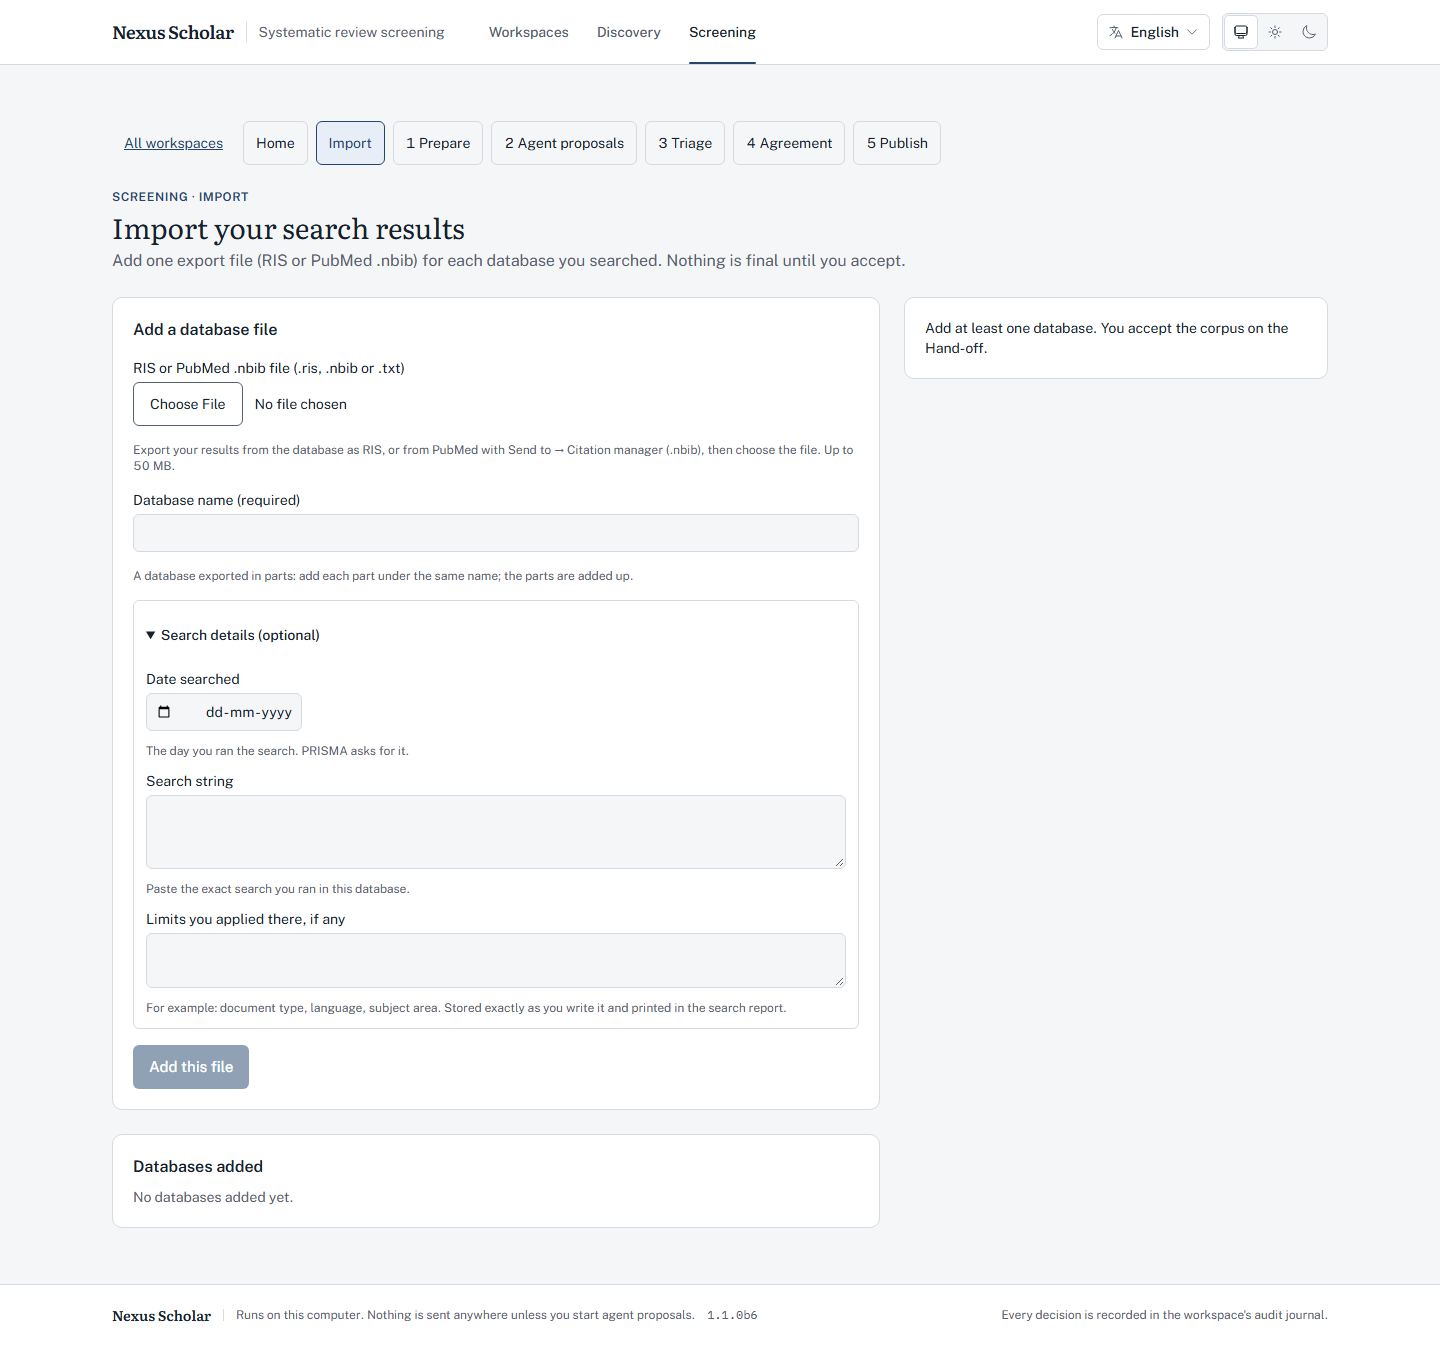
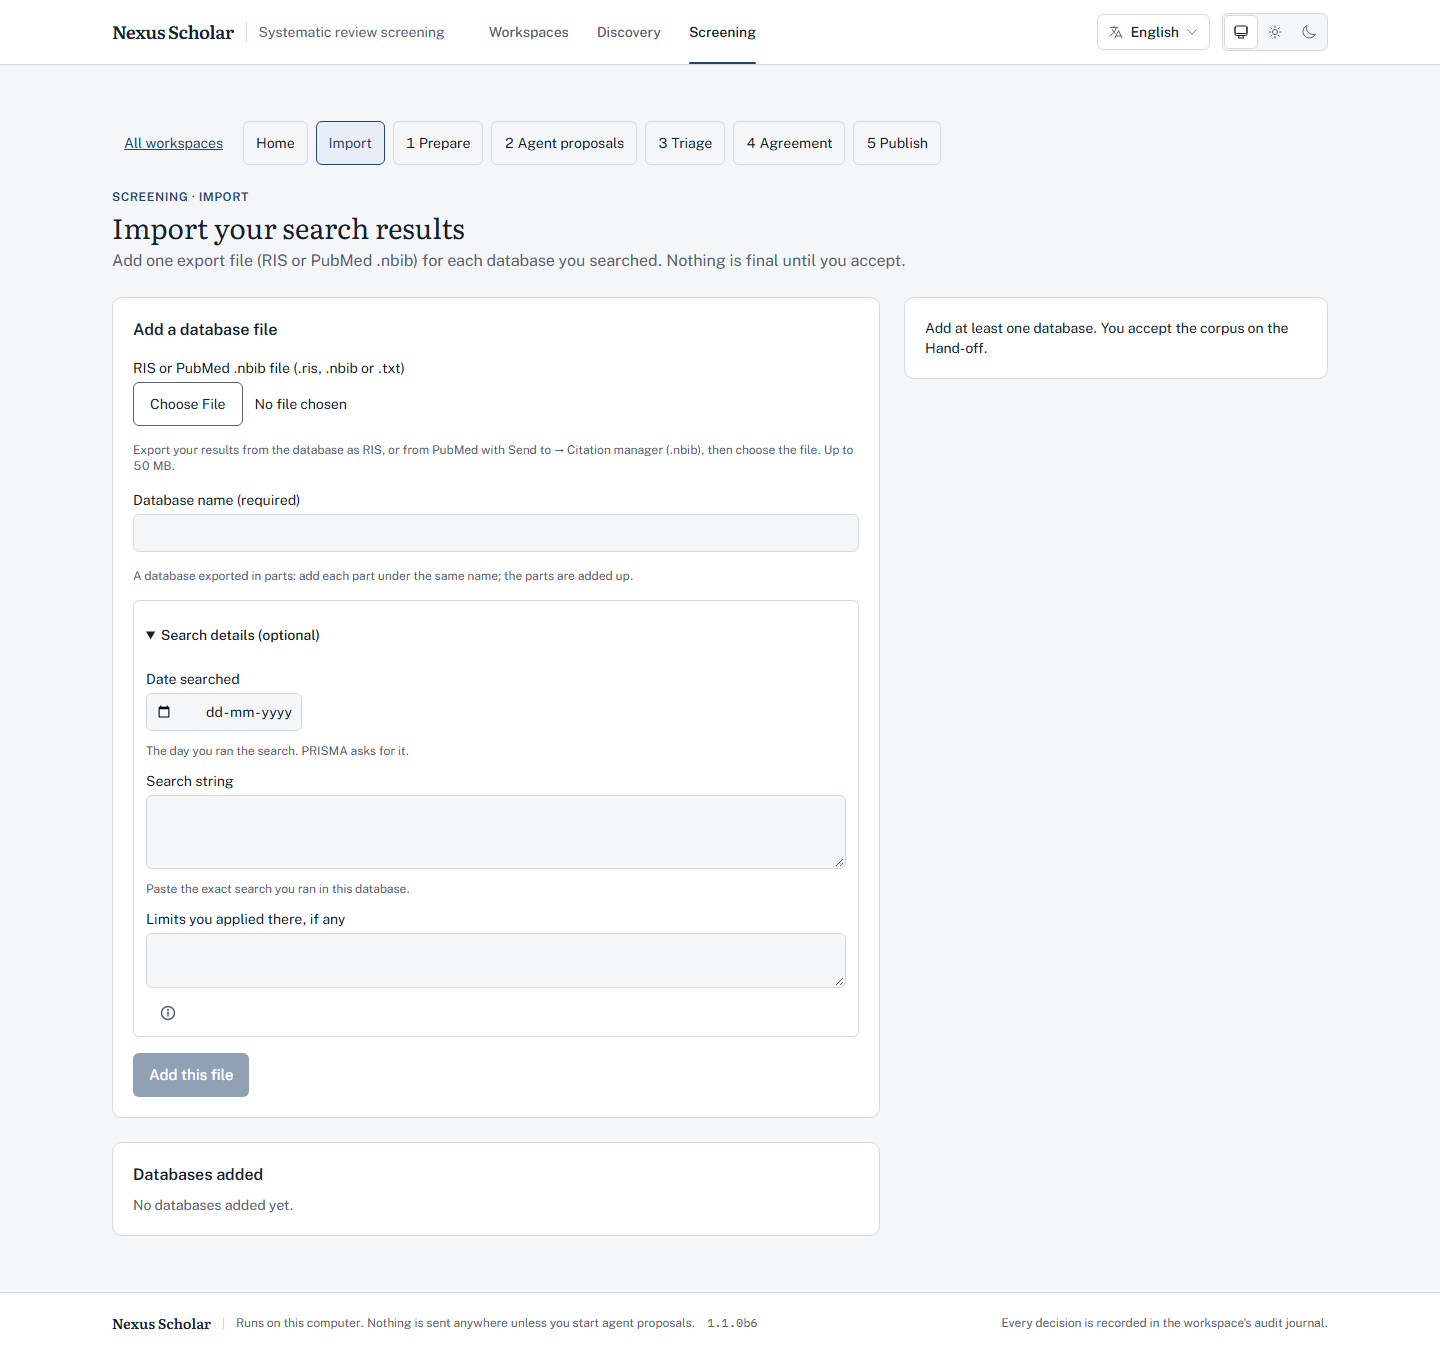
fix(read-performance): review round 1 — a read after a write never joins an earlier request; an unreadable protocol answers the corpus as before
- readJson shares a request only between readers that start in the same
  synchronous run; a reload after a write always asks the engine again
  (review finding 1, with regression tests)
- the accepted-corpus fast path falls back to the full preview when the
  protocol cannot be read, instead of refusing (finding 2, with a test)
- the batch-reviews refusal message falls back to the status text (finding 4);
  a tighter collect refusal assertion (finding 5)
- docs/decisions.md: the build's own choices, items 6 to 22, PROPOSED

diff --git a/apps/research-ui/lib/screening-api.ts b/apps/research-ui/lib/screening-api.ts
@@ -221,14 +221,15 @@ export function normalizeConsoleOrigin(origin: string): string {
 }
 
 /**
- * One request for every reader of the same address at the same time
+ * One request for every reader of the same address in the same synchronous run
  * (H-screening-read-performance, DoD 5 and 7). Two parts of a page that read
- * the same GET while it loads (the screening steps and Home both read the
- * corpus) share one request; each reader gets its own copy of the answer, and
- * its own refusal or abort. Nothing is kept once the answer arrived: the next
- * read asks the engine again.
+ * the same GET as it mounts (the screening steps and Home both read the corpus,
+ * in one render's effects) share one request; each reader gets its own copy of
+ * the answer, and its own refusal or abort. A read that starts later, after a
+ * write or anything else awaited, never joins it, and nothing is kept once the
+ * answer arrived: the next read asks the engine again.
  */
-type SharedRead = { promise: Promise<unknown>; controller: AbortController; readers: number; fetcher: typeof fetch; handedOut: boolean };
+type SharedRead = { promise: Promise<unknown>; controller: AbortController; readers: number; fetcher: typeof fetch; handedOut: boolean; joinable: boolean };
 const sharedReads = new Map<string, SharedRead>();
 
 /** What an aborted read always gave: the failed `fetch` read as an unreachable console. */
@@ -247,9 +248,15 @@ export function readJson<T>(path: string, origin: string, signal?: AbortSignal):
   if (signal?.aborted) return readJsonOnce<T>(path, origin, signal);
   let shared = sharedReads.get(url);
   if (shared !== undefined && shared.fetcher !== globalThis.fetch) shared = undefined; // another fetch (a test's): never joined
+  // Only readers that start in the same synchronous run (one render's effects) share a request: a read
+  // made after anything awaited, such as a write, always asks the engine again (review finding 1).
+  if (shared !== undefined && !shared.joinable) shared = undefined;
   if (shared === undefined) {
     const controller = new AbortController();
-    const entry: SharedRead = { controller, readers: 0, promise: Promise.resolve(), fetcher: globalThis.fetch, handedOut: false };
+    const entry: SharedRead = { controller, readers: 0, promise: Promise.resolve(), fetcher: globalThis.fetch, handedOut: false, joinable: true };
+    queueMicrotask(() => {
+      entry.joinable = false;
+    });
     entry.promise = readJsonOnce<unknown>(path, origin, controller.signal).finally(() => {
       if (sharedReads.get(url) === entry) sharedReads.delete(url);
     });
@@ -357,6 +364,9 @@ export function getBatchReview(
   );
 }
 
+/** The reason phrases the per-batch request's refusal carried as its message when the engine gave none. */
+const STATUS_TEXT: Record<number, string> = { 400: "Bad Request", 403: "Forbidden", 404: "Not Found", 409: "Conflict", 422: "Unprocessable Entity", 500: "Internal Server Error" };
+
 /** A batch the per-batch route refused, as the one-request route carries it. */
 interface RefusedReview {
   batch_index: number;
@@ -382,7 +392,7 @@ export async function getBatchReviews(origin: string, signal?: AbortSignal): Pro
       throw new ScreeningApiError(
         String(detail?.code ?? `HTTP_${item.status}`),
         item.status,
-        String(detail?.message ?? (typeof item.detail === "string" ? item.detail : "")),
+        String(detail?.message ?? (typeof item.detail === "string" ? item.detail : (STATUS_TEXT[item.status] ?? ""))),
         detail?.details,
       );
     }

diff --git a/apps/research-ui/tests/read-sharing.test.ts b/apps/research-ui/tests/read-sharing.test.ts
@@ -104,4 +104,25 @@ describe("read-sharing", () => {
     second.pending[0].answer(200, { fresh: true });
     expect(await read).toEqual({ fresh: true });
   });
+
+  it("review finding 1: a read after a write never joins a read made before it", async () => {
+    const { fetchMock, pending } = deferredEngine();
+    const before = readJson("/api/v1/charting", "/api/console");
+    await Promise.resolve(); // the write's await: a later task, as after a POST
+    await new Promise((r) => setTimeout(r, 0));
+    const after = readJson("/api/v1/charting", "/api/console");
+    expect(fetchMock).toHaveBeenCalledTimes(2);
+    pending[0].answer(200, { version: 1 });
+    pending[1].answer(200, { version: 2 });
+    expect(await before).toEqual({ version: 1 });
+    expect(await after).toEqual({ version: 2 });
+  });
+
+  it("a read one microtask later is already its own request", async () => {
+    const { fetchMock } = deferredEngine();
+    void readJson("/api/v1/screening/summary", "/api/console").catch(() => undefined);
+    await Promise.resolve();
+    void readJson("/api/v1/screening/summary", "/api/console").catch(() => undefined);
+    expect(fetchMock).toHaveBeenCalledTimes(2);
+  });
 });

diff --git a/tests/console/test_read_performance.py b/tests/console/test_read_performance.py
@@ -204,7 +204,7 @@ def test_approve_and_publish_recompute_from_disk_even_where_the_store_cannot_see
     assert not ev.projection_is_current(ws, 7, path)
     with pytest.raises(Exception) as refused:
         cmd_collect(ws)
-    assert ev.PROJECTION_STALE in str(refused.value) or "007" in str(refused.value) or "7" in str(refused.value)
+    assert ev.PROJECTION_STALE in str(refused.value) and "007" in str(refused.value), str(refused.value)
 
 
 # --- DoD 4: an accepted corpus is read, not rebuilt --------------------------------------------
@@ -328,3 +328,18 @@ def test_the_kept_results_read_only_files_the_key_covers(ws):
     assert outside == []
     left_out = [p for p in inside if os.path.relpath(p, root).split(os.sep)[0] in read_store.NOT_READ]
     assert left_out == []
+
+
+@pytest.mark.parametrize("protocol", ["not json", None], ids=["invalid", "missing"])
+def test_review_finding_2_an_unreadable_protocol_answers_the_corpus_as_before(ws, protocol, counted_dedup):
+    """The fast path never refuses where the full preview answered (review finding 2)."""
+    from scholar_harness.corpus_accept import preview_staged
+
+    if protocol is None:
+        (ws / "protocol.json").unlink()
+    else:
+        (ws / "protocol.json").write_text(protocol, encoding="utf-8")
+    response = _client(ws).get("/api/v1/screening/corpus")
+    assert response.status_code == 200, response.text
+    full = preview_staged(ws)
+    assert response.json()["preview"] == {k: full[k] for k in ("identified", "duplicates", "unique_studies")}

diff --git a/src/scholar_harness/corpus_accept.py b/src/scholar_harness/corpus_accept.py
@@ -653,7 +653,13 @@ def _accepted_counts(
         return None
     if manifest.get("total_raw_harvested") != records or staged != records:
         return None
-    if artifact.get("protocol_fingerprint") != _protocol_fingerprint(ws):
+    try:
+        current = _protocol_fingerprint(ws)
+    except AcceptCorpusRefused:
+        # Review finding 2: an unreadable protocol is not this path's refusal to make; the
+        # full preview answers as it always did.
+        return None
+    if artifact.get("protocol_fingerprint") != current:
         return None
     return {"identified": records, "duplicates": records - studies, "unique_studies": studies}
 

diff --git a/docs/decisions.md b/docs/decisions.md
@@ -11,6 +11,29 @@ history to read if you need the original reasoning (`git log --follow -- <path>`
 | Entry | Item | What is open |
 | :-- | :-- | :-- |
 | 2026-11-19 — M9a: what the measurement says about the ladder gates | 2 | The minimum share of the researcher's excludes an agent must take before a rung unlocks: the principle is accepted; the researcher decided on 2026-11-20 to set the number when M9b is built. |
+| 2026-11-23 — H-screening-read-performance: the build's own choices | 6 to 22 | Proposed by the build; none answered yet. |
+
+## 2026-11-23 — H-screening-read-performance: the build's own choices (items 6 to 22 PROPOSED, not yet answered)
+
+Record: `docs/roadmap/milestones/H-screening-read-performance.md`, "Build 2026-11-23". Items 1 to 5 are the specification's closed questions (entry of 2026-11-22). Each item below is how the build did something the specification leaves open; each is the researcher's to accept or change.
+
+6. **Where the store applies: the routes that show a state, and nothing else.** A route enters it by `read_store.display_route`: `GET /ui/publication-status`, `/review/next-step`, `/screening/prisma/preview`, `/screening/corpus`, `/screening/summary`, `/workspaces`, `/charting`, `/charting/records/{id}`, `/discovery/checks`, `/discovery/handoff`. Everything else reads the disk as before: Approve, Publish (collect), every write, the chase start, the export downloads, `/screening/methods` and `/ui/publication/outputs/{name}`. *Choice:* export and the methods paragraph are treated like Publish (they leave the app), not as display routes; the methods paragraph keeps about 0.3 s on the fixture.
+7. **The key is every file under the workspace**, by name, size and modification time, apart from six top-level folders no kept result reads (`pdfs`, `extracted`, `rag`, `synthesis`, `.cache`, `charting`); a test runs every kept result and fails if it opens a file in them or outside the workspace. *Not chosen:* keying each result on the files it read (a file that appears later, such as a new decisions file, would not be seen). Cost: one `os.stat` per file per lookup (about 28 ms for the fixture's 295 files on this PC).
+8. **What is kept:** the publication status, `require_current_generation`'s result, the corpus view, the screening summary and the stale-projection list; up to 32 workspaces, no time limit, nothing on disk. A result is kept only when the key read before and after computing it is the same; each caller gets its own copy.
+9. **Inside one display call each file is opened once** (the per-request part of the store), and its bytes are reused only while its size and modification time are unchanged. This, not the kept results, is what brings a first call under 150 files.
+10. **`require_current_generation` is asked once per display call** through `currentness.current_generation`, at its three callers (the status, `export.load_published`, the chase's publication state); the authority module is unchanged.
+11. **An accepted corpus is answered from its acceptance only when that is certain:** an import manifest (exports accepted alone), round 1, the staged files' ids and sha256 equal to the manifest's and each stored file hashed again, the snapshot built under the current protocol (so under its de-duplication method), and the record counts of the manifest, the staged files and the snapshot equal. Then identified = the snapshot's records and unique = its studies. Otherwise, and when the protocol cannot be read (review finding 2), the exports are parsed and de-duplicated as before. A combined corpus (M3f) or a chase round never shows the staged counts, so they are not computed there. The de-duplicator is still constructed, so an invalid method block refuses as before. *Known limit:* the snapshot de-duplicates `verified.json` rows and the old preview de-duplicated the parsed exports; equal on the fixture (2,181 → 1,062), not proven equal for every input.
+12. **`GET /screening/ui/batches/review`** answers every batch in `/ui/batches` order; each item is what `/ui/batch/{n}/review` answers, and a batch that route refuses carries `{batch_index, status, detail}`. Publish fails on the first refusal, as it did when one of its requests failed.
+13. **`GET /charting` leaves out each row's `abstract`** (no screen reads it there; the one-study view reads `/charting/records/{id}`): 636 KB to 238 KB on the fixture. The other fields no screen reads (authors, venue, url, arXiv id, generation id, title-and-abstract decision and reason, round; the table-level publication and rounds) are kept: small, and other readers may use them.
+14. **Same-page duplicates are removed in the request helper, not page by page:** `readJson` lets readers of the same address that start in the same synchronous run (one render's effects, as the steps bar and Home on mount) share one request; a read that starts after anything awaited, such as a write, always sends its own (review finding 1: a reload after a second quick change must not get the answer to the first). Each reader gets its own copy, an aborted reader fails as before (`CONSOLE_UNREACHABLE`), the last reader leaving stops the request, and nothing is kept after the answer. A test's own `fetch` never joins an earlier one.
+15. **"The next-step bar and the page share the publication status" is done in the engine:** the bar never asked for `/ui/publication-status`; it asks for the next step, which computes the status, and the status route then reads the kept result.
+16. **The screening steps bar still asks for the corpus on every screening page** (it decides whether the Import step shows); on Home it now shares the page's own request. *Not chosen:* reading the corpus state from the next step on the client (a domain decision in the web app).
+17. **The loading frame** (question 5): the page's own name line (its eyebrow, already in en, fr, ar) as the level-1 heading, the sentence the page had, and two empty cards (three on Home), on Home, Import, Prepare, Agent proposals, Agreement, Publish, Export and the pilot page. Triage, Charting (its pulsing skeletons stay) and Workspaces are unchanged.
+18. **Three duplicates named by the study are not in the current code**, so nothing changed for them: the pilot page asks for the summary and criteria once (the pair is on Prepare's pilot card); the one-study view does not read the table again on each move (only when it opens); the bar does not ask for the publication status.
+19. **The generated fixture** (`tests/console/_sensor_stress.py`): five exports staged and accepted alone (2,181 records, 1,062 studies), 54 batches of 20, 1,062 decisions and 38 changed ones (1,100 events), one screener (`researcher:local`), projected, approved and published; no agent proposals, no pilot, no chase round, no harvest. Its file counts before the change match the study's on the real review (3,320, 3,463, 3,301).
+20. **Files opened are counted as the interpreter's `open` events under the workspace**, on a first call with the store empty and the modules already imported; `os.stat` is not counted.
+21. **The web app's request tests answer each page from a real engine's recorded answers** on a published three-record workspace (`apps/research-ui/tests/fixtures/page-engine.json`, written by `tests/console/_record_page_engine.py`).
+22. **`stale_projections` reads each decisions file once and decodes it as UTF-8** (as `read_text` did), then compares the same bytes as before; a failure to read the context, the log or `project.json` counts every event-sourced batch stale, as the same failure in each batch's own read did.
 
 ## 2026-11-23 — UI unit tests wait 3 s by default; the performance specification is widened (items 1 and 2 accepted by the researcher 2026-11-23)
 
